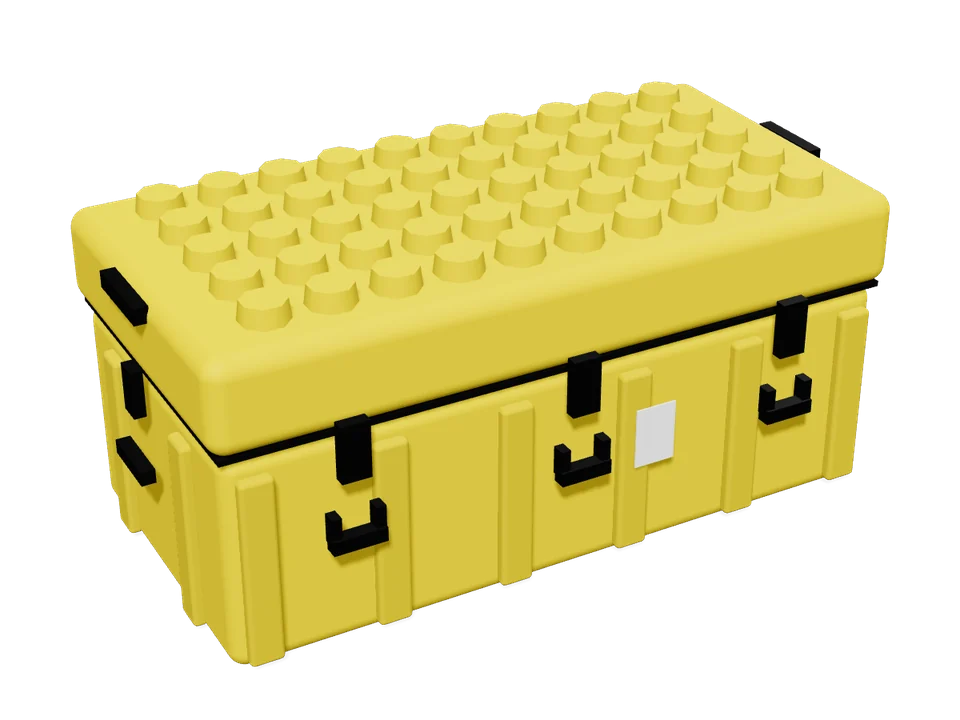
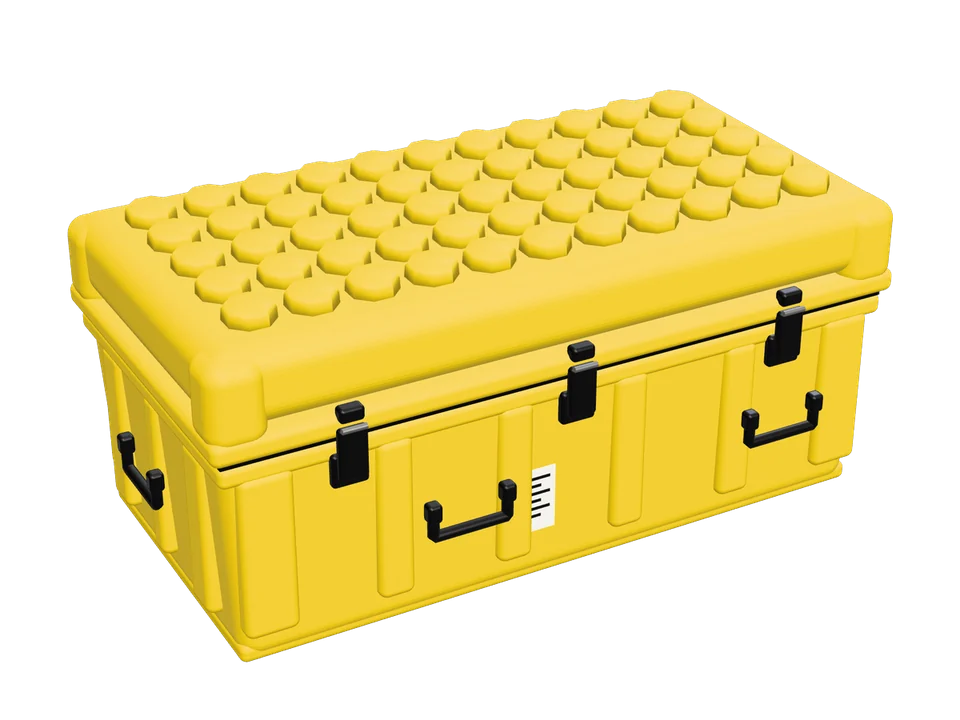
Modelos 3D mais detalhados (pilares, fechos, alças, etiqueta) e rótulos de tamanho
Claude-Session: https://claude.ai/code/session_01UdsL3ZtjqEMpBmzPSJGhYi

diff --git a/src/lib/modelos.ts b/src/lib/modelos.ts
@@ -6,15 +6,15 @@ export interface FotoModelo {
 }
 
 export const MODELOS: FotoModelo[] = [
-  { id: 'caqui-1', cor: 'Caqui', rotulo: 'Caqui' },
+  { id: 'caqui-1', cor: 'Caqui', rotulo: 'Caqui · grande' },
   { id: 'azul-1', cor: 'Azul', rotulo: 'Azul · média' },
-  { id: 'azul-2', cor: 'Azul', rotulo: 'Azul · comprida' },
-  { id: 'azul-3', cor: 'Azul', rotulo: 'Azul · alta' },
-  { id: 'vermelha-1', cor: 'Vermelha', rotulo: 'Vermelha' },
-  { id: 'amarela-1', cor: 'Amarela', rotulo: 'Amarela' },
+  { id: 'azul-2', cor: 'Azul', rotulo: 'Azul · grande' },
+  { id: 'azul-3', cor: 'Azul', rotulo: 'Azul · pequena' },
+  { id: 'vermelha-1', cor: 'Vermelha', rotulo: 'Vermelha · pequena' },
+  { id: 'amarela-1', cor: 'Amarela', rotulo: 'Amarela · média' },
   { id: 'preta-1', cor: 'Preta', rotulo: 'Preta · média' },
-  { id: 'preta-2', cor: 'Preta', rotulo: 'Preta · comprida' },
-  { id: 'preta-3', cor: 'Preta', rotulo: 'Preta · alta' },
+  { id: 'preta-2', cor: 'Preta', rotulo: 'Preta · grande' },
+  { id: 'preta-3', cor: 'Preta', rotulo: 'Preta · pequena' },
 ]
 
 export function srcModelo(id: string, grande = false): string {
